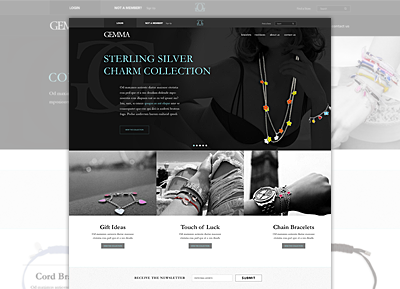
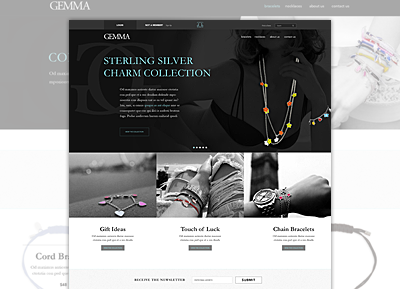
implemented descriptions to portfolio pieces -

diff --git a/index.html b/index.html
@@ -545,8 +545,8 @@
                         <img src="images/portfolio/portfolio-jacobandco-thumb.png" class="img-responsive" alt="">
                     </a>
                     <div class="portfolio-caption">
-                        <h4>Round Icons</h4>
-                        <p class="large">Jacob &amp; Co.</p>
+                        <h4>Jacob &amp; Co.</h4>
+                        <!-- <p class="large">UI Design, Page Layout</p> -->
                     </div>
                 </div>
                 <div class="col-md-4 col-sm-6 portfolio-item">
@@ -559,8 +559,8 @@
                         <img src="images/portfolio/portfolio-globe-thumb.png" class="img-responsive" alt="">
                     </a>
                     <div class="portfolio-caption">
-                        <h4>Startup Framework</h4>
-                        <p class="large">Boston Globe</p>
+                        <h4>The Boston Globe</h4>
+                        <!-- <p class="large">Newspaper Section Fronts</p> -->
                     </div>
                 </div>
                 <div class="col-md-4 col-sm-6 portfolio-item">
@@ -573,8 +573,8 @@
                         <img src="images/portfolio/portfolio-metropolis-thumb.png" class="img-responsive" alt="">
                     </a>
                     <div class="portfolio-caption">
-                        <h4>Treehouse</h4>
-                        <p class="large">Metropolis Creative</p>
+                        <h4>Metropolis Creative</h4>
+                        <!-- <p class="large">Web Design, Banner Ads, Brochures</p> -->
                     </div>
                 </div>
                 <div class="col-md-4 col-sm-6 portfolio-item">
@@ -587,22 +587,8 @@
                         <img src="images/portfolio/portfolio-art-design-thumb.png" class="img-responsive" alt="">
                     </a>
                     <div class="portfolio-caption">
-                        <h4>Golden</h4>
-                        <p class="large">Art + Design</p>
-                    </div>
-                </div>
-                <div class="col-md-4 col-sm-6 portfolio-item">
-                    <a href="#portfolioModal5" class="portfolio-link" data-toggle="modal">
-                        <div class="portfolio-hover">
-                            <div class="portfolio-hover-content">
-                                <i class="fa fa-plus fa-3x"></i>
-                            </div>
-                        </div>
-                        <img src="images/portfolio/portfolio-school-thumb.png" class="img-responsive" alt="">
-                    </a>
-                    <div class="portfolio-caption">
-                        <h4>Escape</h4>
-                        <p class="large">College Work</p>
+                        <h4>Art+Design at Northeastern</h4>
+                        <!-- <p class="large">Lecture Fliers</p> -->
                     </div>
                 </div>
                 <div class="col-md-4 col-sm-6 portfolio-item">
@@ -615,8 +601,22 @@
                         <img src="images/portfolio/portfolio-freelance-thumb.png" class="img-responsive" alt="">
                     </a>
                     <div class="portfolio-caption">
-                        <h4>Dreams</h4>
-                        <p class="large">Freelance</p>
+                        <h4>Freelance</h4>
+                        <!-- <p class="large">Various Web &amp; Graphic Design, Illustration</p> -->
+                    </div>
+                </div>
+                <div class="col-md-4 col-sm-6 portfolio-item">
+                    <a href="#portfolioModal5" class="portfolio-link" data-toggle="modal">
+                        <div class="portfolio-hover">
+                            <div class="portfolio-hover-content">
+                                <i class="fa fa-plus fa-3x"></i>
+                            </div>
+                        </div>
+                        <img src="images/portfolio/portfolio-school-thumb.png" class="img-responsive" alt="">
+                    </a>
+                    <div class="portfolio-caption">
+                        <h4>College Work</h4>
+                        <!-- <p class="large">Graphic Design</p> -->
                     </div>
                 </div>
             </div>
@@ -722,22 +722,17 @@
                     <div class="col-lg-8 col-lg-offset-2">
                         <div class="modal-body">
                             <!-- Project Details Go Here -->
-                            <h2>Project Name</h2>
-                            <p class="item-intro text-muted">Lorem ipsum dolor sit amet consectetur.</p>
-                            <img class="img-responsive img-centered" src="images/portfolio/portfolio-jacobandco-gemma.png" alt=""><p>Use this area to describe your project. Lorem ipsum dolor sit amet, consectetur adipisicing elit. Est blanditiis dolorem culpa incidunt minus dignissimos deserunt repellat aperiam quasi sunt officia expedita beatae cupiditate, maiores repudiandae, nostrum, reiciendis facere nemo!</p>
-                            <ul class="list-inline">
+                            <h2>Gemma Rebrand</h2>
+                            <p class="item-intro text-muted">UI design</p>
+                            <img class="img-responsive img-centered" src="images/portfolio/portfolio-jacobandco-gemma.png" alt=""><p>I was given a unique opportunity at Jacob &amp; Co. to rebrand a jewelry company besides our own. As a collaboration, the graphic department at Jacob &amp; Co. renamed the company, redesigned the logo, created packaging, as well as a redesign of the website. The website was my sector. I advanced the UI and UX of the homepage and one additional category page. I chose to give the brand a sleeker, more modern look with the future intention for flawless scalability.</p>
+                            <h2>Jacob &amp; Co. Magazine</h2>
+                            <p class="item-intro text-muted">Page layout</p>
+                            <img class="img-responsive img-centered" src="images/portfolio/portfolio-jacobandco-mag.png" alt=""><p>I was given the task to create a concept magazine with the objective for future quarterly magazines. The magazine is currently in it’s planning stages because this concept was the platform to bringing it to life. I chose to use dramatic imagery and contrasting colors for a vivid, yet luxurious experience to truly conceptualize the world of Jacob &amp; Co.</p>
+                            <!-- <ul class="list-inline">
                                 <li>Date: July 2014</li>
                                 <li>Client: Round Icons</li>
                                 <li>Category: Graphic Design</li>
-                            </ul>
-                            <h2>Project Name</h2>
-                            <p class="item-intro text-muted">Lorem ipsum dolor sit amet consectetur.</p>
-                            <img class="img-responsive img-centered" src="images/portfolio/portfolio-jacobandco-mag.png" alt=""><p>Use this area to describe your project. Lorem ipsum dolor sit amet, consectetur adipisicing elit. Est blanditiis dolorem culpa incidunt minus dignissimos deserunt repellat aperiam quasi sunt officia expedita beatae cupiditate, maiores repudiandae, nostrum, reiciendis facere nemo!</p>
-                            <ul class="list-inline">
-                                <li>Date: July 2014</li>
-                                <li>Client: Round Icons</li>
-                                <li>Category: Graphic Design</li>
-                            </ul>
+                            </ul> -->
                             <button type="button" class="btn btn-primary" data-dismiss="modal"><i class="fa fa-times"></i> Close Jacob &amp; Co.</button>
                         </div>
                     </div>
@@ -759,11 +754,10 @@
                 <div class="row">
                     <div class="col-lg-8 col-lg-offset-2">
                         <div class="modal-body">
-                            <h2>Project Heading</h2>
-                            <p class="item-intro text-muted">Lorem ipsum dolor sit amet consectetur.</p>
+                            <h2>The Boston Globe</h2>
+                            <p class="item-intro text-muted">Editorial Design Layout</p>
                             <img class="img-responsive img-centered" src="images/portfolio/portfolio-globe.png" alt="">
-                            <p><a href="http://designmodo.com/startup/?u=787">Startup Framework</a> is a website builder for professionals. Startup Framework contains components and complex blocks (PSD+HTML Bootstrap themes and templates) which can easily be integrated into almost any design. All of these components are made in the same style, and can easily be integrated into projects, allowing you to create hundreds of solutions for your future projects.</p>
-                            <p>You can preview Startup Framework <a href="http://designmodo.com/startup/?u=787">here</a>.</p>
+                            <p>As an editorial designer at the Boston Globe, I designed section fronts with predetermined articles and their correlating photography. I carefully chose placement and scale for typography and imagery to fully demonstrate the articles integrity. These elements are of most importance to fully create an understandable hierarchy and a delineated point of reference for the eye of the reader.</p>
                             <button type="button" class="btn btn-primary" data-dismiss="modal"><i class="fa fa-times"></i> Close Boston Globe</button>
                         </div>
                     </div>
@@ -786,18 +780,18 @@
                     <div class="col-lg-8 col-lg-offset-2">
                         <div class="modal-body">
                             <!-- Project Details Go Here -->
-                            <h2>Project Name</h2>
-                            <p class="item-intro text-muted">Lorem ipsum dolor sit amet consectetur.</p>
+                            <h2>Phantom Entertainment</h2>
+                            <p class="item-intro text-muted">Web Design Mockup</p>
                             <img class="img-responsive img-centered" src="images/portfolio/metropolis-phantom.png" alt="">
-                            <p><a href="http://designmodo.com/startup/?u=787">Startup Framework</a> is a website builder for professionals. Startup Framework contains components and complex blocks (PSD+HTML Bootstrap themes and templates) which can easily be integrated into almost any design. All of these components are made in the same style, and can easily be integrated into projects, allowing you to create hundreds of solutions for your future projects.</p>
-                            <h2>Project Heading</h2>
-                            <p class="item-intro text-muted">Lorem ipsum dolor sit amet consectetur.</p>
+                            <p>As a collaboration with the Metropolis Creative design team, I was given the task to create a homepage design for Phantom Entertainment. Other elements involved in the project were branding, logo design and print elements. The company is young, vibrant and enthusiastic about party planning so I reinterpreted that into the homepage elements. Using complementary purple and yellow colors to show intensity, fun and drama as well as play with the idea of the company name itself, “Phantom”.</p>
+                            <h2>PTC</h2>
+                            <p class="item-intro text-muted">Banner Ads</p>
                             <img class="img-responsive img-centered" src="images/portfolio/metropolis-ptc.png" alt="">
-                            <p><a href="http://designmodo.com/startup/?u=787">Startup Framework</a> is a website builder for professionals. Startup Framework contains components and complex blocks (PSD+HTML Bootstrap themes and templates) which can easily be integrated into almost any design. All of these components are made in the same style, and can easily be integrated into projects, allowing you to create hundreds of solutions for your future projects.</p>
-                            <h2>Project Heading</h2>
-                            <p class="item-intro text-muted">Lorem ipsum dolor sit amet consectetur.</p>
+                            <p>Banner ads are small and give little wiggle room to fully demonstrate what a company has to offer. With that in mind, I created multiple banner ads with different dimensions a bold and dramatic look using color and imagery to grab attention and draw interest. Banner ads are a great example of tweaking design elements to fit all sorts of dimensions, while still exhibiting the original messaging goal.</p>
+                            <h2>Enterprise Center</h2>
+                            <p class="item-intro text-muted">Brochure Layout Design</p>
                             <img class="img-responsive img-centered" src="images/portfolio/metropolis-enterprise.png" alt="">
-                            <p><a href="http://designmodo.com/startup/?u=787">Startup Framework</a> is a website builder for professionals. Startup Framework contains components and complex blocks (PSD+HTML Bootstrap themes and templates) which can easily be integrated into almost any design. All of these components are made in the same style, and can easily be integrated into projects, allowing you to create hundreds of solutions for your future projects.</p>
+                            <p>The Enterprise Center is a company that offers programs to help businesses succeed with workshops, seminars, mentoring and more. I designed a simple brochure to outline and organize these company aspects using the grid system to prioritize importance and easily guide the eye to view what the reader is looking for. White space and typography is adeptly used to further demonstrate hierarchy.</p>
                             <button type="button" class="btn btn-primary" data-dismiss="modal"><i class="fa fa-times"></i> Close Metropolis Creative</button>
                         </div>
                     </div>
@@ -820,11 +814,10 @@
                     <div class="col-lg-8 col-lg-offset-2">
                         <div class="modal-body">
                             <!-- Project Details Go Here -->
-                            <h2>Project Name</h2>
-                            <p class="item-intro text-muted">Lorem ipsum dolor sit amet consectetur.</p>
+                            <h2>Art+Design Department</h2>
+                            <p class="item-intro text-muted">Lecture Fliers</p>
                             <img class="img-responsive img-centered" src="images/portfolio/portfolio-art-design.png" alt="">
-                            <p>Start Bootstrap's Agency theme is based on Golden, a free PSD website template built by <a href="https://www.behance.net/MathavanJaya">Mathavan Jaya</a>. Golden is a modern and clean one page web template that was made exclusively for Best PSD Freebies. This template has a great portfolio, timeline, and meet your team sections that can be easily modified to fit your needs.</p>
-                            <p>You can download the PSD template in this portfolio sample item at <a href="http://freebiesxpress.com/gallery/golden-free-one-page-web-template/">FreebiesXpress.com</a>.</p>
+                            <p>The Art+Design Department at Northeastern University invited me to be the point person for creating lecture fliers to be distributed throughout the campus. This gave me a unique excuse to be creative with existing artist work in addition to high exposure through the art world at Northeastern University. With this, I chose to incorporate my personality into the designs to show a fun and playful element but still exhibiting the original messaging.</p>
                             <button type="button" class="btn btn-primary" data-dismiss="modal"><i class="fa fa-times"></i> Close Art+Design Department</button>
                         </div>
                     </div>
@@ -834,44 +827,6 @@
     </div>
 
     <!-- Portfolio Modal 5 -->
-    <div class="portfolio-modal modal fade" id="portfolioModal5" tabindex="-1" role="dialog" aria-hidden="true">
-        <div class="modal-content">
-            <div class="close-modal" data-dismiss="modal">
-                <div class="lr">
-                    <div class="rl">
-                    </div>
-                </div>
-            </div>
-            <div class="container">
-                <div class="row">
-                    <div class="col-lg-8 col-lg-offset-2">
-                        <div class="modal-body">
-                            <!-- Project Details Go Here -->
-                            <h2>Project Name</h2>
-                            <p class="item-intro text-muted">Lorem ipsum dolor sit amet consectetur.</p>
-                            <img class="img-responsive img-centered" src="images/portfolio/portfolio-school-BSO.png" alt="">
-                            <p>Escape is a free PSD web template built by <a href="https://www.behance.net/MathavanJaya">Mathavan Jaya</a>. Escape is a one page web template that was designed with agencies in mind. This template is ideal for those looking for a simple one page solution to describe your business and offer your services.</p>
-                            <h2>Project Name</h2>
-                            <p class="item-intro text-muted">Lorem ipsum dolor sit amet consectetur.</p>
-                            <img class="img-responsive img-centered" src="images/portfolio/portfolio-school-helv.png" alt="">
-                            <p>Escape is a free PSD web template built by <a href="https://www.behance.net/MathavanJaya">Mathavan Jaya</a>. Escape is a one page web template that was designed with agencies in mind. This template is ideal for those looking for a simple one page solution to describe your business and offer your services.</p>
-                            <h2>Project Name</h2>
-                            <p class="item-intro text-muted">Lorem ipsum dolor sit amet consectetur.</p>
-                            <img class="img-responsive img-centered" src="images/portfolio/portfolio-school-perks.png" alt="">
-                            <p>Escape is a free PSD web template built by <a href="https://www.behance.net/MathavanJaya">Mathavan Jaya</a>. Escape is a one page web template that was designed with agencies in mind. This template is ideal for those looking for a simple one page solution to describe your business and offer your services.</p>
-                            <h2>Project Name</h2>
-                            <p class="item-intro text-muted">Lorem ipsum dolor sit amet consectetur.</p>
-                            <img class="img-responsive img-centered" src="images/portfolio/portfolio-school-icon.png" alt="">
-                            <p>Escape is a free PSD web template built by <a href="https://www.behance.net/MathavanJaya">Mathavan Jaya</a>. Escape is a one page web template that was designed with agencies in mind. This template is ideal for those looking for a simple one page solution to describe your business and offer your services.</p>
-                            <button type="button" class="btn btn-primary" data-dismiss="modal"><i class="fa fa-times"></i> Close Northeastern University Projects</button>
-                        </div>
-                    </div>
-                </div>
-            </div>
-        </div>
-    </div>
-
-    <!-- Portfolio Modal 6 -->
     <div class="portfolio-modal modal fade" id="portfolioModal6" tabindex="-1" role="dialog" aria-hidden="true">
         <div class="modal-content">
             <div class="close-modal" data-dismiss="modal">
@@ -885,18 +840,22 @@
                     <div class="col-lg-8 col-lg-offset-2">
                         <div class="modal-body">
                             <!-- Project Details Go Here -->
-                            <h2>Project Name</h2>
-                            <p class="item-intro text-muted">Lorem ipsum dolor sit amet consectetur.</p>
+                            <h2>Rogelio Rodriguez Personal Portfolio</h2>
+                            <p class="item-intro text-muted">Personal Resume and Portfolio Website Mockup</p>
+                            <img class="img-responsive img-centered" src="images/portfolio/portfolio-freelance-roger.png" alt="">
+                            <p>I created a UI for Roger Rodriguez’s personal portfolio and resume website. As a Visual Merchandiser, Roger had clear intentions in mind. He wanted dark colors, and a red to match his already existing logo. I created a UI that is simple and striking. Red on black gives a very dramatic feel, which matches his dazzling window arrangements.</p>
+                            <h2>Baby Bird Children's Book</h2>
+                            <p class="item-intro text-muted">Illustration</p>
                             <img class="img-responsive img-centered" src="images/portfolio/portfolio-freelance-babybird.png" alt="">
-                            <p>Dreams is a free PSD web template built by <a href="https://www.behance.net/MathavanJaya">Mathavan Jaya</a>. Dreams is a modern one page web template designed for almost any purpose. It’s a beautiful template that’s designed with the Bootstrap framework in mind.</p>
-                            <h2>Project Name</h2>
-                            <p class="item-intro text-muted">Lorem ipsum dolor sit amet consectetur.</p>
+                            <p>Using shapes, color and dimension in this children book written by my sister, I was able to illustrate the story of Baby Bird. Using a consistent style throughout, the book is persistent and reads as a finished product. It is funny, cute and simple to appeal to the children audience.</p>
+                            <h2>Darfur Now</h2>
+                            <p class="item-intro text-muted">Fliers &amp; Postcards</p>
                             <img class="img-responsive img-centered" src="images/portfolio/portfolio-freelance-darfur.png" alt="">
-                            <p>Dreams is a free PSD web template built by <a href="https://www.behance.net/MathavanJaya">Mathavan Jaya</a>. Dreams is a modern one page web template designed for almost any purpose. It’s a beautiful template that’s designed with the Bootstrap framework in mind.</p>
-                            <h2>Project Name</h2>
-                            <p class="item-intro text-muted">Lorem ipsum dolor sit amet consectetur.</p>
+                            <p>I created fliers for the Northeastern University screening of Darfur Now for the student group NUSTAND. As a student organization for anti-genocide, I was given the task to create awareness as well as bring people to the event. Creating a piece for something so serious is no easy feat, as it cannot be playful as well as depressing. Choosing complementary, striking colors and a thick bold typeface is attention grabbing and served it’s purpose well.</p>
+                            <h2>Laura Lacy Music</h2>
+                            <p class="item-intro text-muted">Gig Flier</p>
                             <img class="img-responsive img-centered" src="images/portfolio/portfolio-freelance-lacy.png" alt="">
-                            <p>Dreams is a free PSD web template built by <a href="https://www.behance.net/MathavanJaya">Mathavan Jaya</a>. Dreams is a modern one page web template designed for almost any purpose. It’s a beautiful template that’s designed with the Bootstrap framework in mind.</p>
+                            <p>Designing with sound in mind is in itself an interesting concept. Matching tone to visuals is very much about how you think what colors represent and how big or soft the sound is. I created fliers for Laura Lacy who is a folk/indie musician. I wanted it to have a bright element with texture to symbolize her melodies and personality. Check her out at <a href="https://soundcloud.com/lauralacy">https://soundcloud.com/lauralacy</a></p>
                             <button type="button" class="btn btn-primary" data-dismiss="modal"><i class="fa fa-times"></i> Close Freelance Projects</button>
                         </div>
                     </div>
@@ -904,6 +863,47 @@
             </div>
         </div>
     </div>
+
+
+    <!-- Portfolio Modal 6 -->
+    <div class="portfolio-modal modal fade" id="portfolioModal5" tabindex="-1" role="dialog" aria-hidden="true">
+        <div class="modal-content">
+            <div class="close-modal" data-dismiss="modal">
+                <div class="lr">
+                    <div class="rl">
+                    </div>
+                </div>
+            </div>
+            <div class="container">
+                <div class="row">
+                    <div class="col-lg-8 col-lg-offset-2">
+                        <div class="modal-body">
+                            <!-- Project Details Go Here -->
+                            <h2>Boston Symphony Orchestra</h2>
+                            <p class="item-intro text-muted">Typography II</p>
+                            <img class="img-responsive img-centered" src="images/portfolio/portfolio-school-BSO.png" alt="">
+                            <p><span class="item-intro text-muted">Project Outline:</span> Create a poster illustrating the BSO schedule for the season.<br> <span class="item-intro text-muted">My Take:</span> Organize content by month and day. Be able to read the main concept from far away. As the reader gets closer to the poster, they are able to see that it is a yearly schedule. The thick lines in the background are used to separate months as well as add an attention grabbing element and striking composition.</p>
+                            <h2>Helvetica</h2>
+                            <p class="item-intro text-muted">Typography II</p>
+                            <img class="img-responsive img-centered" src="images/portfolio/portfolio-school-helv.png" alt="">
+                            <p><span class="item-intro text-muted">Project Outline:</span> Create a thirty page typography book. Must have a theme and a correlating story.<br> <span class="item-intro text-muted">My Take:</span> I created a book illustrating the history of Helvetica. What the typefaces initial purpose was and how it came to be one of the most influential and most used typeface to date. By implementing the grid, it allowed for large dramatic imagery and nicely displayed text. Of course using Helvetica throughout the book showed it’s true light and gave it a simplistic, clean and finished look.</p>
+                            <h2>Perks of Being a Wallflower</h2>
+                            <p class="item-intro text-muted">Graphic Design I</p>
+                            <img class="img-responsive img-centered" src="images/portfolio/portfolio-school-perks.png" alt="">
+                            <p><span class="item-intro text-muted">Project Outline:</span> Redesign an existing book cover<br> <span class="item-intro text-muted">My Take:</span> The Perks of Being a Wallflower is one of the most influential book for young adults. It shows the struggles for teenagers in a way that most young adults can relate to. The first person style of writing further illustrates that not all teenagers are alone in the world. I chose to incorporate a typewriter as that is one of the significant symbolic items apparent in the novel. I took this photograph myself to give it an even more personal feel. By placing a post-it note on the classic item is an interesting play on vintage versus modern. The post-it note says “Best Book for Young Adults, 2000”, which gives it an even more outside feel which is an added dimension for young adults who feel like they are of a different world.</p>
+                            <h2>Icon Development</h2>
+                            <p class="item-intro text-muted">Graphic Design I</p>
+                            <img class="img-responsive img-centered" src="images/portfolio/portfolio-school-icon.png" alt="">
+                            <p><span class="item-intro text-muted">Project Outline:</span> Choose an every day item and create a simplistic icon<br> <span class="item-intro text-muted">My Take:</span> I chose a tape dispenser because it has an unusual shape, and one that is recognizable at that. We had to draw this item using different methods as well as take pictures of the item. Doing this allowed us to fully understand the items textures, shapes and use. Making a 3D item 2D is no easy task, but my tape dispenser shows the rigid texture of the metal where the tape is torn, and the smooth plastic texture of the dispenser. It is recognizable of what it is representing.</p>
+                            <button type="button" class="btn btn-primary" data-dismiss="modal"><i class="fa fa-times"></i> Close Northeastern University Projects</button>
+                        </div>
+                    </div>
+                </div>
+            </div>
+        </div>
+    </div>
+
+
 
     <!-- jQuery -->
     <script src="js/jquery.js"></script>

diff --git a/css/agency.css b/css/agency.css
@@ -1347,7 +1347,7 @@ ul.social-buttons li a:active {
 }
 
 .portfolio-modal .modal-content h2 {
-    margin-top: 15px;
+    margin-top: 35px;
     font-size: 3em;
     background-color: transparent;
 }
@@ -1361,6 +1361,10 @@ ul.social-buttons li a:active {
     font-weight: 400;
     font-size: 16px;
     font-style: italic;
+}
+
+.portfolio-modal .modal-content span.item-intro {
+    color:#ff6634;
 }
 
 .portfolio-modal .modal-content ul.list-inline {

diff --git a/css/bootstrap.css b/css/bootstrap.css
@@ -5746,6 +5746,7 @@ button.close {
 }
 .modal-content {
   position: relative;
+/*  background-color: #16e0eb;*/ /* BLUE COLOR */
   background-color: #f5f5f5;
   -webkit-background-clip: padding-box;
           background-clip: padding-box;
